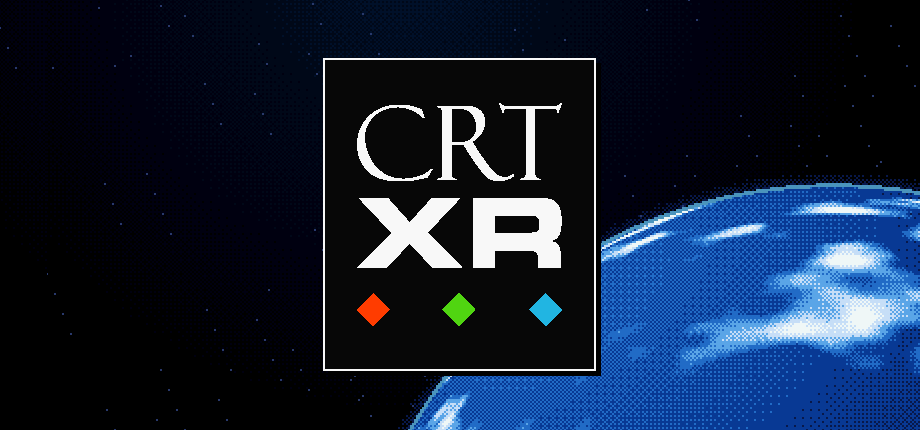
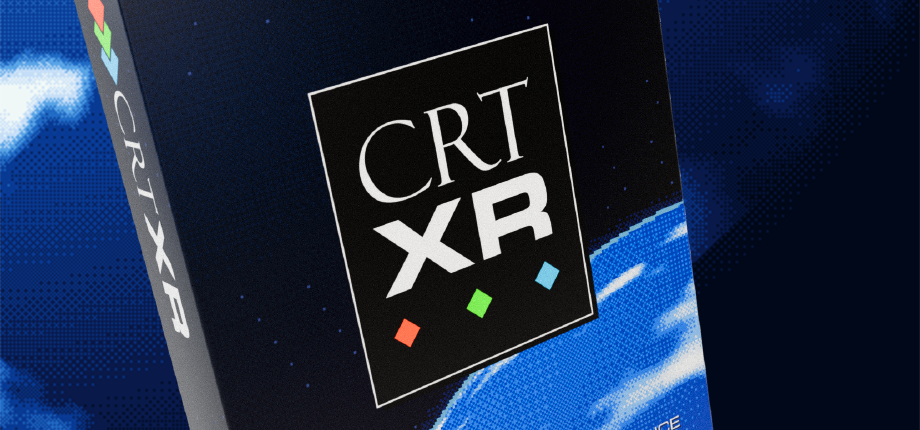
Prepare beta.15 with 90s menus, new consoles and music visuals

diff --git a/scripts/package-corresponding-source.py b/scripts/package-corresponding-source.py
@@ -12,10 +12,12 @@ for p in (ROOT/'cores/sources').glob('*.tar.gz'):files['cores/sources/'+p.name]=
 for p in (ROOT/'cores/sources').glob('*.patch'):files['cores/sources/'+p.name]=p
 files['cores/core-builds.json']=ROOT/'cores/core-builds.json'
 for p in (ROOT/'build/core-build-logs').glob('*.log'):files['build-materials/'+p.name]=p
+for p in (ROOT/'build/projectm-sources').glob('*'):
+ if p.is_file():files['third_party/projectm/sources/'+p.name]=p
 assert len([p for p in files if p.startswith('cores/sources/')])>=5,'Missing core/binding/engine input archives'
 for name in files:
  assert name.split('/')[0] not in ['sdk','tools','archive','dist','roms','saves','userdata'],name
- assert Path(name).suffix not in ['.dll','.so','.sfc','.nes','.sms','.gg','.srm','.mp3','.pem','.key'],name
+ assert Path(name).suffix not in ['.dll','.so','.sfc','.nes','.sms','.gg','.srm','.mp3','.pem','.key'] or name=='assets/audio/menu-click.mp3',name
 recipe='''# Rebuilding the supplied source
 
 Original CRT XR code is MIT; preserve all upstream notices. See docs/CORE-DISTRIBUTION.md for the in-process GPL core treatment and separate restricted cores.
@@ -33,11 +35,15 @@ cmake -S native/emulation -B build/host-windows -DCMAKE_BUILD_TYPE=Release -DCMA
 cmake --build build/host-windows --parallel 6
 cp tools/godot-cpp/LICENSE.md extensions/bin/godot-cpp-LICENSE.md
 python3 scripts/build-release-cores.py all
+bash scripts/build-projectm.sh linux
+bash scripts/build-projectm.sh windows
 bash scripts/build-linux.sh
 python3 scripts/check-core-sources.py
 ```
 
 The core builder uses SHA-verified supplied source archives when Git metadata is absent; no mutable nightly download is needed. It then applies the recorded patches under scripts/core-patches; copies and hashes of those patches are also supplied under cores/sources and in core-builds.json. Hashes identify exact inputs and outputs; future compilers are not promised bit-for-bit identical results. The recorded successful core build used Ubuntu 24.04/GCC 13 and MinGW GCC 13. Binary package notices and source access must accompany redistribution.
+
+The visualiser's patched projectM and GLEW source archives are under third_party/projectm/sources, with the patch and build script. Extract those archives into tools/ before building without Git metadata. The shared library remains replaceable beside the application; preserve its LGPL notices and source materials.
 
 For Windows VITURE tracking, compile native/windows_tracking/bridge.cpp with MinGW POSIX and -std=c++17 -O2 -static -municode, linking ws2_32, setupapi and hid, as recorded in scripts/build-windows-tracking.ps1. No vendor headers or proprietary runtime are required to compile this bridge. Runtime VITURE SDK files are separately obtained by the user and are not in this source archive or binary packages. Windows exports require Python on Windows to apply the per-monitor DPI manifest with scripts/set-windows-dpi.py; retain the separate PCK.
 

diff --git a/scripts/package-beta.py b/scripts/package-beta.py
@@ -68,13 +68,14 @@ own licences. See CORE-DISTRIBUTION.md and THIRD_PARTY.md in this folder.
 """,encoding="utf-8")
 required=["licenses/LICENSE","licenses/LICENSING.md","licenses/CORE-DISTRIBUTION.md","licenses/SOURCE-ACCESS.md","licenses/THIRD_PARTY.md","licenses/godot/LICENSE.txt","licenses/fonts/OpenSans-OFL.txt","assets/optimised/cabinet.scn","assets/wood-table/table.scn","assets/room-bake/table_contact_albedo.res"]+["docs/"+name for name in GUIDES]
 required += ["CRT-XR.exe","CRT-XR.pck","tracking/crt-xr-windows-tracking.exe","crt_xr_libretro.windows.x86_64.dll"] if platform=="windows" else ["crt-xr.x86_64","crt-xr-engine.x86_64","crt-xr.pck","crt-xr-tracking-bridge","crt-xr-ipc-inventory","crt_xr_libretro.linux.x86_64.so","Install-CRT-XR.sh","installer/install.py","installer/steam_config.py","tracking-session.py"]+["artwork/"+name+".png" for name in ["Portrait","Landscape","Hero","Logo","Icon"]]
+required += ["projectM-4.dll" if platform=="windows" else "libprojectM-4.so", "licenses/projectm/LICENSE.txt", "licenses/projectm/GLEW-LICENSE.txt", "licenses/projectm/sources/projectm-4.1.8-patched.tar.gz", "licenses/projectm/sources/glew-2.2.0.tar.gz", "licenses/projectm/sources/build-projectm.sh", "licenses/projectm/sources/offscreen.patch"]
 for name in required:assert (app/name).is_file(),f"Missing packaged asset: {name}"
 if desktop:
  for name in ["launch-linux.sh","linux-session.py","installer/runtime_check.py","Install-CRT-XR-Linux.sh"]:
   assert (app/name).is_file(),f"Missing desktop installer asset: {name}"
 for core in ["snes9x","nestopia","genesis_plus_gx","gambatte","mgba","mednafen_pce_fast","mednafen_lynx","mednafen_ngp","stella","vecx","pcsx_rearmed","mupen64plus_next"]:assert (app/"cores"/(core+"_libretro."+("dll" if platform=="windows" else "so"))).is_file(),f"Missing packaged core: {core}"
 top=sorted(p.name for p in folder.iterdir())
-expected={"linux":sorted(["Install CRT XR.desktop","HOW TO INSTALL.txt",PAYLOAD]),"windows":sorted(["CRT-XR.exe","CRT-XR.pck","crt_xr_libretro.windows.x86_64.dll","HOW TO START.txt","cores","assets","tracking","docs","licenses"])}[platform]
+expected={"linux":sorted(["Install CRT XR.desktop","HOW TO INSTALL.txt",PAYLOAD]),"windows":sorted(["CRT-XR.exe","CRT-XR.pck","crt_xr_libretro.windows.x86_64.dll","projectM-4.dll","HOW TO START.txt","cores","assets","tracking","docs","licenses"])}[platform]
 assert top==expected,f"Unexpected top-level download contents: {top}"
 subprocess.run([sys.executable,str(Path(__file__).with_name('check-core-sources.py')),str(app)],check=True)
 checksums=app/"docs" if platform=="windows" else app

diff --git a/scripts/test-beta.py b/scripts/test-beta.py
@@ -4,12 +4,13 @@ import concurrent.futures, json, os, re, subprocess, tempfile, time, sys
 ROOT=Path(__file__).resolve().parents[1]
 GODOT=os.environ.get("GODOT_BIN") or str(ROOT/"tools/godot/Godot_v4.5.1-stable_win64_console.exe")
 TESTS="smoke emulation multicore gamepad controller_menu menu_navigation menu_improvements menu_layout stereo_menu picture_controls picture_pipeline preferences_startup rom_locations rom_index library_cards play_qol share_and_defaults showcase_defaults music_albums music_resume tv_audio tv_power_on console_prop room_contacts user_data_migration pose_prediction display_probe startup_brand boot_warmup menu_boot menu_boot_sound menu_ambience menu_navigation_sound deck_glyphs quick_settings resume_page windows_setup disc_loading video video_menu ffmpeg_installer opentrack_tracking menu_depth room_presets box_art archives tv_atmosphere sbs_auto_switch help_article menu_on_tv menu_scroll".split()
+TESTS += ["controller_layouts", "emulation_info", "core_options", "core_options_integration", "music_visualizer"]
 OUT=ROOT/"build/beta-review";OUT.mkdir(parents=True,exist_ok=True)
 def run(name):
     isolated=tempfile.mkdtemp(prefix=name+"-",dir=OUT)
     env=dict(os.environ,APPDATA=isolated,XDG_DATA_HOME=isolated)
     try:
-        flags=["--audio-driver","Dummy","--minimized"] if name in ["picture_controls","picture_pipeline","share_and_defaults"] else ["--headless"]
+        flags=["--audio-driver","Dummy","--minimized"] if name in ["picture_controls","picture_pipeline","share_and_defaults","music_visualizer"] else ["--headless"]
         extra=["--","--windows-xr","--boot-preview"] if name=="windows_setup" else []
         result=subprocess.run([str(GODOT),*flags,"--path",str(ROOT),"--script",f"tests/{name}.gd",*extra],cwd=ROOT,env=env,stdout=subprocess.PIPE,stderr=subprocess.STDOUT,text=True,encoding="utf-8",errors="replace",timeout=90)
         log=result.stdout

diff --git a/scripts/check-repository.py b/scripts/check-repository.py
@@ -20,7 +20,7 @@ for name in files:
         problem('Local-only path in publication inputs: ' + name)
     if path.stat().st_size > 50 * 1024 * 1024:
         problem('File exceeds repository size budget: ' + name)
-    if path.suffix.lower() in {'.sfc', '.smc', '.swc', '.fig', '.nes', '.unf', '.unif', '.gen', '.smd', '.sms', '.gg', '.srm', '.sav', '.pem', '.key', '.mp3', '.flac', '.m4a', '.bin'}:
+    if path.suffix.lower() in {'.sfc', '.smc', '.swc', '.fig', '.nes', '.unf', '.unif', '.gen', '.smd', '.sms', '.gg', '.srm', '.sav', '.pem', '.key', '.mp3', '.flac', '.m4a', '.bin'} and name != 'assets/audio/menu-click.mp3':
         problem('Private cartridge/save/key file in publication inputs: ' + name)
     if path.suffix.lower() in {'.png', '.jpg', '.wav', '.res', '.scn'}:
         continue

diff --git a/README.md b/README.md
@@ -1,12 +1,12 @@
 <p align="center">
-  <img src="artwork/Logo.png" alt="CRT XR logo" width="260">
+  <img src="artwork/Logo.png" alt="CRT XR logo with three coloured diamonds" width="260">
 </p>
 
 <h1 align="center">CRT XR</h1>
 
 <p align="center">
-  A little CRT room for your XR glasses.<br>
-  Retro games and your own videos, head tracking, warm lighting and the radio on in the background.
+  The ultimate millennial nostalgia experience for your XR glasses<br>
+  Retro games, your own videos and music visualisers, head tracking, warm lighting and the radio on in the background.
 </p>
 
 <p align="center">
@@ -33,22 +33,24 @@
 - **Your videos on the tube.** Choose a video folder and your MP4, M4V and MKV files play on the CRT with the same picture, light and sound as games: letterbox, 14:9 or fill for widescreen, subtitles, resume and Continue watching. The VCR joins in with green on-screen text, an optional VHS or worn-tape look and its mechanism sounds. The Steam Deck uses SteamOS's own FFmpeg; Windows downloads FFmpeg's video libraries once, on request.
 - **A library that understands your folders.** Pick your ROM root or SD card and browse supported systems, Recent and Favourites. Unrelated console folders stay out of the way. If you've scraped box art with EmuDeck, ES-DE or RetroDECK, CRT XR shows it from your existing `downloaded_media` (or `media` folders beside your ROMs); nothing is downloaded.
 - **Your music, in the room.** Play MP3 albums or direct MP3 web radio with positional sound and optional room reverb. Use the pause-menu transport and seek bar, and optionally lower game audio while music plays. The last track and position are restored, ready for you to press Play.
+- **Music visuals on the tube.** A projectM-powered visualiser responds to your albums or radio on the CRT, with three bundled presets, adjustable brightness and optional automatic preset changes. Return to the menu without stopping the music or visuals, then restore your previous game or video when you're done.
 - **Responsive play.** Optional input preview in a separate copy of the emulator reduces input delay while keeping game audio intact. **Reset game** in the pause menu emulates the console's reset button and keeps battery saves and save states.
 - **Your controls, your way.** Put any console button on any control: pick a layout, then press the button you want. Each console keeps its layout and any game can have its own, with presets such as Smash Bros. and twin-stick shooting for the N64. Buttons are drawn the same way throughout the menus, by position, so they read right on any pad.
-- **Controller-first adjustments.** Quick settings, organised settings pages, controller text entry, compact visual previews, per-option resets, saved setups and per-game picture preferences. Accessibility options include larger text, stronger contrast and reduced animation. Four save-state slots per game with pictures, automatic resume points and clean screenshots are built in. The menu header shows the time, and the Deck's battery.
+- **A 90s console-style menu.** Pixel lettering, a moving planet and stars, and an animated three-diamond boot logo with startup sound and optional menu music. Menus appear on the CRT with your current picture settings by default; choose a clean menu feed for readability or float the menu in front of the TV. Games and videos share library shortcuts, quick settings and screenshot/recenter actions.
+- **Controller-first adjustments.** Quick settings put room and picture presets, TV distance, screen height and volume within reach, with compact placement previews. Organised settings pages, controller text entry, per-option resets, saved setups and per-game picture preferences keep adjustments simple. **Emulation → Consoles / This game** offers supported console defaults and per-game overrides, applied when the game next loads. Accessibility options include larger text, stronger contrast and reduced animation. Four save-state slots per game with pictures, automatic resume points and clean screenshots are built in. The menu header shows the time, and the Deck's battery.
 
 Bring your own games and music. Cartridges can be plain files or sit alone in a ZIP (Deflate or stored; 7z and RAR are not read). Sega CD discs can be a `.cue` sheet, a `.bin` carrying the Sega CD header, or a CHD in a Sega CD folder (`segacd`, `megacd`, or a folder inside one). A zipped game shares its saves with the same game unzipped. Sega CD and Atari Lynx need their hardware's own files: the Sega CD BIOS (`bios_CD_U.bin` and friends) and the Lynx boot ROM (`lynxboot.img`). CRT XR finds them in the `bios` folder next to your `roms` folder (the EmuDeck layout), in `~/Applications/CRT-XR/bios` on the Deck, or in a `bios` folder next to `CRT-XR.exe` on Windows. The game library names anything still missing.
 
 ## Download the beta
 
-**Beta.14.1 (0.1.0-beta.14.1)** is a hotfix for beta.14: it fixes a white/cyan screen-glow fault reported after long Steam Deck sessions, keeps the view anchored through temporary tracking gaps, and fixes an NES startup/reopen crash. See the [hotfix release notes](docs/RELEASE-NOTES-beta.14.1.md). Beta.14 introduced the [cosier room and automatic glasses setup](docs/RELEASE-NOTES-beta.14.md), and we are still looking for testers with XREAL, Rokid, RayNeo or other glasses.
+**Beta.15 (0.1.0-beta.15)** adds PlayStation and Nintendo 64, controller layouts with per-game overrides, a 90s console-style menu and animated startup, expanded quick settings, console settings and projectM music visuals. It includes the updated Steam artwork and all beta.14.1 fixes. See the [beta.15 release notes](docs/RELEASE-NOTES-beta.15.md). **Testers with XREAL, Rokid, RayNeo or other glasses are still wanted**, along with reports from other Windows and Linux systems; only VITURE Pro 2 has been tested for XR use.
 
 Download from [GitHub Releases](https://github.com/blackalice/CRT-XR/releases). Pick **one** app package:
 
 | You have | Download | Then |
 |---|---|---|
-| **Steam Deck** | `CRT-XR-0.1.0-beta.14.1-SteamDeck.tar.gz` | Extract it in Desktop Mode and double-click **Install CRT XR** |
-| **Windows PC** | `CRT-XR-0.1.0-beta.14.1-Windows.zip` | Extract it and double-click **CRT-XR.exe** |
+| **Steam Deck** | `CRT-XR-0.1.0-beta.15-SteamDeck.tar.gz` | Extract it in Desktop Mode and double-click **Install CRT XR** |
+| **Windows PC** | `CRT-XR-0.1.0-beta.15-Windows.zip` | Extract it and double-click **CRT-XR.exe** |
 
 Each download opens with a short **HOW TO INSTALL** / **HOW TO START** file. The `…-source-code.tar.gz` file and GitHub's automatic "Source code" links are not apps: they are for rebuilding and licence compliance.
 
@@ -66,7 +68,7 @@ The intended setup is XR glasses with **SBS and 3DoF tracking exposed through a 
 
 ## Install on Steam Deck
 
-1. In **Desktop Mode**, download `CRT-XR-0.1.0-beta.14.1-SteamDeck.tar.gz` and extract it (right-click → Extract). Sign in to Steam at least once beforehand.
+1. In **Desktop Mode**, download `CRT-XR-0.1.0-beta.15-SteamDeck.tar.gz` and extract it (right-click → Extract). Sign in to Steam at least once beforehand.
 2. In the extracted folder, double-click **Install CRT XR**. Choose **Trust and Launch** if asked. Pick the VITURE Full SBS profile, or Deck / monitor only.
 3. Let setup close Steam. It installs CRT XR, adds or updates its Steam shortcut and artwork, and keeps your settings, saves and custom artwork.
 4. Restart Steam, then **Return to Gaming Mode → Library → Non-Steam → CRT XR**. You can delete the extracted folder.
@@ -87,7 +89,7 @@ Open **Game Library → Library locations** to choose your ROM folder or SD card
 
 ## Install on Windows
 
-1. Extract `CRT-XR-0.1.0-beta.14.1-Windows.zip` to a folder (not inside the ZIP) and double-click **CRT-XR.exe**. It is portable and unsigned: if Windows warns, choose **More info → Run anyway**. Keep the files and folders next to the EXE together. For normal-monitor play, choose **Play on this screen without glasses**; the remaining steps are for glasses.
+1. Extract `CRT-XR-0.1.0-beta.15-Windows.zip` to a folder (not inside the ZIP) and double-click **CRT-XR.exe**. It is portable and unsigned: if Windows warns, choose **More info → Run anyway**. Keep the files and folders next to the EXE together. For normal-monitor play, choose **Play on this screen without glasses**; the remaining steps are for glasses.
 2. For glasses tracking, obtain the **VITURE Windows x86_64 SDK separately** and copy the contents of its `x86_64` folder into a folder named `sdk` beside the EXE. The beta does **not** include proprietary VITURE SDK DLLs; installing SpaceWalker alone does not configure this step. See [Windows setup](docs/WINDOWS-SETUP.md).
 3. Close SpaceWalker so it does not compete for tracking. **Switch the glasses to SBS first**, then launch CRT XR on your normal monitor.
 4. Choose the glasses display and select **Open glasses view**. The app moves under a black curtain and opens when the selected display is ready. For normal-monitor play, choose **Play on this screen without glasses**.
@@ -157,6 +159,14 @@ In **Video Library**, select **Choose a video folder** and pick the folder holdi
 
 While watching, **A** pauses, **D-pad left/right** skips 10 seconds (hold to scrub), **up/down** skips a minute, **Y** changes the picture shape and **X** the audio track; the menu has a scrubbable timeline. Settings are in the **Videos** category: **Picture** (the video picture, shape, lines, interlacing), **VCR** (tape look, on-screen text, sounds) and **Playback** (subtitles, hardware decoding, folder). See [Videos](docs/emulation.md#videos) for details.
 
+## Music and visualiser
+
+Expand **Music** on the home or pause menu to browse MP3 albums or play direct MP3 web radio. Select **Visualiser**, beside **Browse albums**, to put music visuals on the CRT. It pauses the previous game or video; **B / Escape** opens the menu while the visualiser stays active, and selecting **Visualiser** again returns to it.
+
+While viewing, **A / Space** pauses or plays music, **left/right** selects a preset, **up/down** changes brightness and **Y** toggles automatic preset changes. Automatic mode changes presets every 30 seconds; reduced animation keeps the current preset. **Audio → Visualiser** contains these settings and **Stop visualiser**, which restores the previous programme while music keeps playing. Preferences are remembered, but playback does not start automatically.
+
+Three original presets are included; importing your own presets is not yet supported. Steam Deck performance and long-session checks remain pending. See the [music visualiser guide](docs/music-visualiser.md).
+
 ## Controls
 
 On Steam Deck, use Steam's **Gamepad With Joystick Trackpad** layout. On Windows, use an Xbox/XInput-compatible controller directly. You do not need to hold the three-lines button to switch Desktop/gamepad mappings.
@@ -173,7 +183,9 @@ On Steam Deck, use Steam's **Gamepad With Joystick Trackpad** layout. On Windows
 | Move TV closer / farther | Right stick, when enabled | Page Up / Page Down |
 | Screenshot | Pause menu | F6 |
 
-Continue or library setup leads the home screen. Quick settings opens TV placement, recenter, picture presets and both volume controls. In game lists, left/right jumps ten games and scrolls the selection into view. **Reset game** is in the pause menu. **Emulation → Separate preview core** controls the separate emulator copy used by **Reduce input delay**. Save picture presets under **Picture → Presets**; accessibility options are under **Menu → Accessibility**. When the menu is set to float, **Menu → Layout & placement → Menu depth** places it in front of the TV and dims the room in side-by-side 3D; the compact preview does not dim the room. **Menu → Feedback → Controller vibration** adds a light tick as you move. Music uses a compact strip when idle or paused and expands its transport and timeline during playback. Left/right selects playback controls or seeks; up/down moves between music and game actions. Game controls follow each supported console's layout.
+Continue or library setup leads the home screen. Home and game pause menus include a six-tile Quick settings grid for Room, Picture, Game volume, TV distance, Screen height offset and Music volume. Select distance or height to open the compact placement preview. Videos use the same layout with video volume and playback-specific controls. In system game lists, left/right or L1/R1 changes pages of 50 games; **Jump to letter** navigates longer lists. Steam Deck starts with controller glyphs, including in Desktop Mode; pressing a keyboard key switches to keyboard prompts.
+
+**Reset game** is in the pause menu. **Emulation → Performance → Separate preview core** controls the separate emulator copy used by **Reduce input delay**. Save picture presets under **Picture → Presets**; accessibility options, including **Clean menu feed**, are under **Menu → Accessibility**. **Menu → Layout & placement → Menu on the TV** switches between the CRT and floating menu; **Menu depth** places the floating menu in front of the TV and dims the room in side-by-side 3D. The compact preview does not dim the room. **Menu → Audio & vibration** controls menu sounds, boot sound, menu music and controller vibration, with an independent menu music volume. Music uses a compact strip when idle or paused and expands its transport and timeline during playback. Left/right selects playback controls or seeks; up/down moves between music and game actions. Game controls follow each supported console's layout.
 
 ## Updates, help and feedback
 
@@ -181,6 +193,7 @@ On Steam Deck, run the installer from a newer complete package to update the exi
 
 - [Getting started and recovery](docs/GETTING-STARTED.md)
 - [Picture controls](docs/picture-controls.md) · [Room and view](docs/room-and-view.md) · [Audio](docs/audio.md)
+- [Menus, settings and startup](docs/settings-and-startup.md) · [Music visualiser](docs/music-visualiser.md)
 - [Development and builds](docs/DEVELOPMENT.md)
 - [Pre-launch checklist](docs/PRE-LAUNCH-CHECKLIST.md) · [Detailed beta review](docs/BETA-REVIEW.md)
 

diff --git a/docs/RELEASE-NOTES-beta.15.md b/docs/RELEASE-NOTES-beta.15.md
@@ -1,0 +1,77 @@
+# CRT XR 0.1.0-beta.15 — 90s menus, more consoles and music visuals
+
+**The ultimate millennial nostalgia experience for your XR glasses**
+
+PlayStation and Nintendo 64 join the CRT room, with new controller layouts, a 90s console-style menu, an animated startup and music visuals on the tube. This release includes every update since beta.14.1, refreshed Steam artwork and the previous screen-glow, tracking-recovery and NES fixes.
+
+## Which file do I download?
+
+| You have | Download | Then |
+|---|---|---|
+| **Steam Deck** | `CRT-XR-0.1.0-beta.15-SteamDeck.tar.gz` | In Desktop Mode, extract it and double-click **Install CRT XR** |
+| **Windows PC** | `CRT-XR-0.1.0-beta.15-Windows.zip` | Extract it and double-click **CRT-XR.exe** |
+
+The `CRT-XR-0.1.0-beta.15-source-code.tar.gz` download and GitHub's automatic "Source code" links are for rebuilding and licence compliance, not for playing. Keep the corresponding-source download with the app packages when redistributing them.
+
+**New here?** Open **Game Library → Library locations** and choose the folder containing your console folders (for EmuDeck, usually `Emulation/roms`). No games are moved or renamed. No glasses? Choose **Play on this screen without glasses** for a fixed view. On Steam Deck, head tracking needs **Decky Loader and XR Gaming with support for your glasses** installed separately; leave XR Gaming's virtual display off. Windows VITURE tracking needs the separately obtained VITURE x86_64 SDK; it is not bundled.
+
+**Updating:** run the new Steam Deck installer to update the existing shortcut and managed artwork, keeping settings, saves and custom artwork. On Windows, extract to a new folder; preferences and saves live separately and carry over.
+
+## Help us test other glasses and systems
+
+XR use has only been tested with **VITURE Pro 2 on Steam Deck and Windows**. If you have **XREAL, Rokid, RayNeo or other side-by-side glasses**, please try the beta and tell us how it went. Reports from other Windows PCs, controllers and Linux desktops are welcome too; a general Linux desktop installer remains a preview, rather than a separately validated download in this release.
+
+- **Steam Deck:** tracking comes from XR Gaming, so glasses supported by that plugin should track. CRT XR recognises VITURE, XREAL, Rokid and RayNeo displays by name, but only VITURE's handoff has been confirmed on hardware. Where the driver supports it, CRT XR requests automatic side-by-side switching on entry and a return to 2D on exit. VITURE Pro 2 still needs its physical SBS button; please tell us what your glasses do.
+- **Windows:** VITURE uses its SDK. Other glasses can use a tool sending **OpenTrack UDP to `127.0.0.1:4242`**, such as [opentrack](https://github.com/opentrack/opentrack), [PhoenixHeadTracker](https://github.com/iVideoGameBoss/PhoenixHeadTracker) for XREAL Air, or VertoXR for Rokid and RayNeo. Select **View → Tracking → Tracking source → OpenTrack**. This path still needs real non-VITURE hardware reports; invert individual axes on the same page if needed.
+
+**Please include:**
+
+- Your glasses model, computer/OS, controller and tracking tool or XR Gaming version.
+- Whether the TV stays anchored as you turn, and any axes you inverted.
+- Whether the correct display was found and SBS switched automatically or needed a button press.
+- Whether you changed **View → Advanced calibration → Vertical field of view**, and to what value.
+- Any setup confusion, reconnect/suspend trouble, performance issues or longer-session problems—especially with Nintendo 64 or music visuals.
+
+Open a report at [GitHub Issues](https://github.com/blackalice/CRT-XR/issues). **About & Help → Copy diagnostics** provides useful details; review it before sharing because local paths and radio URLs can appear. First-time setup reports are welcome.
+
+## New since beta.14.1
+
+### PlayStation, Nintendo 64 and console controls
+
+- **PlayStation**, powered by PCSX ReARMed: cue/bin, CHD, PBP, M3U multi-disc lists and zipped discs. ZIPs unpack in the background behind a spinning-disc loading screen. **Change disc** is available for multi-disc games. A real PlayStation BIOS is optional but improves compatibility.
+- **Nintendo 64**, powered by Mupen64Plus-Next with GPU rendering at 320×240 through the same CRT picture. The core is pinned to the 2.8 line to avoid the save-state crashes encountered with 3.0. N64 controller handling, right-stick TV adjustment conflicts and resume behaviour have been corrected.
+- **Controller layouts:** pick a console layout and press the control you want to assign. Keep console defaults or save a layout for an individual game, with N64 presets including Smash Bros. and twin-stick shooting.
+- **Emulation → Consoles / This game:** supported core options now have console defaults and game overrides. Changes apply the next time the game loads; Y restores inheritance. **Info** shows the current core/frame rate and detected BIOS files; **Performance** groups input-delay controls.
+
+### A 90s menu on the CRT
+
+- A new pixel-style console interface with a moving planet, stars, tiles, segmented controls and consistent controller glyphs. Menus appear on the TV by default and retain your tuned picture, including CRT and signal effects. **Menu → Accessibility → Clean menu feed** offers a clearer reading picture; floating placement is still available.
+- Animated three-diamond startup, synchronised with tube warm-up, with a boot sound and an optional menu background loop. **Menu → Audio & vibration** controls boot sound, menu sounds, music and vibration separately; menu music has its own volume.
+- Shared game/video pause-menu navigation, library shortcuts and Settings/Screenshot/Recenter actions. Video playback keeps its timeline, start-over, stop, tape, shape, subtitle and audio controls.
+- A six-tile quick-settings grid on Home and game pause: Room, Picture, Game volume, TV distance, Screen height offset and Music volume. TV placement opens a compact live preview. Video pause uses video volume and playback-specific controls.
+- Settings use clearer categories, subsections, icons and contextual help. Long game lists use pages of 50 and **Jump to letter**. Continue shows its saved-frame preview. Steam Deck starts with controller prompts even in Desktop Mode; keyboard input switches prompts.
+- Updated three-diamond branding and Steam library artwork. The test signal and disc-loading screen now use a 240-line CRT raster.
+
+### Music visuals on the tube
+
+- Expand **Music** and choose **Visualiser**, beside **Browse albums**, for projectM visuals driven by your MP3 albums or direct MP3 radio. Three original presets are bundled.
+- **A / Space** plays/pauses music, **left/right** selects a preset, **up/down** changes brightness and **Y** toggles automatic changes. Automatic mode changes every 30 seconds; reduced animation holds the current preset.
+- **B / Escape** opens the menu without stopping music or visuals. Select Visualiser again to return; **Audio → Visualiser → Stop visualiser** restores the previous game/video. Preferences persist without starting playback automatically.
+- projectM ships as a replaceable shared library, with its notices, patched source and build materials. User preset import is not yet available.
+
+## Release checks
+
+The release passed 56 isolated Godot regression suites on Windows, including video playback with FFmpeg, controller layouts, core settings, tracking and music visuals. All 73 Python checks passed on Linux; Windows passed its applicable Python checks, with 18 Linux-specific checks skipped. Native components and projectM were rebuilt for both platforms. Music visuals produced visible output on Windows and Linux; Linux rendering used software OpenGL, so this is not a Steam Deck performance result. Exported-package and source-integrity checks are recorded in the attached `BUILD-RECORD.json`.
+
+## Known limits and feedback areas
+
+This remains an early public beta. Other glasses, general Linux desktops, extended suspend/reconnect behaviour and long-session visualiser performance still need user testing. Prior hardware checks do not establish compatibility with every device.
+
+- Nintendo 64 and PlayStation do not support the separate input-preview core. Game compatibility varies; the selected emulator core's save states should not be assumed interchangeable with another core or version.
+- PC Engine, Atari 2600, Lynx and Vectrex still need real-game testing beyond diagnostic programs. PC Engine CD, SuperGrafx and Sega 32X are unsupported.
+- Cartridges can be alone in a stored/Deflate ZIP. 7z, RAR and Sega CD discs inside ZIPs are unsupported. Sega CD CHDs must be inside a recognised Sega CD folder; Sega CD and Atari Lynx need their BIOS/boot ROM files.
+- Box art comes from your existing scrape; CRT XR does not download it. Video formats are MP4, M4V and MKV, with codec support determined by FFmpeg. Windows video-library setup downloads FFmpeg on request; Steam Deck uses SteamOS's libraries.
+- Glasses differ in field of view; adjust **View → Advanced calibration** if the TV appears to slide as you turn. SBS alone does not guarantee an accessible tracking source.
+- Windows packages remain unsigned. Proprietary VITURE SDK files and tracking tools are not bundled. No commercial games, BIOS files or personal media are included.
+
+Original CRT XR code is MIT; emulator cores, projectM and other components retain their own licences. Several cores use the GPL; Snes9x and Genesis Plus GX restrict commercial use. Preserve the `licenses/` notices and corresponding source supplied with the release. The original visualiser presets are MIT. See [licensing scope](https://github.com/blackalice/CRT-XR/blob/main/LICENSING.md) and [distribution notes](https://github.com/blackalice/CRT-XR/blob/main/docs/CORE-DISTRIBUTION.md).

diff --git a/docs/DEVELOPMENT.md b/docs/DEVELOPMENT.md
@@ -58,6 +58,12 @@ A local recovery bundle can be created with `scripts/archive-model-assets.py` wh
 
 ## Validation and export
 
+The music visualiser also needs projectM built for both desktop platforms:
+run `bash scripts/build-projectm.sh linux` and `bash scripts/build-projectm.sh windows`
+in the Linux build environment, then rebuild the native extensions. The export
+scripts require these replaceable shared libraries and their corresponding source
+materials. See [music visualiser](music-visualiser.md).
+
 ```powershell
 python scripts/check-repository.py
 python scripts/test-beta.py
